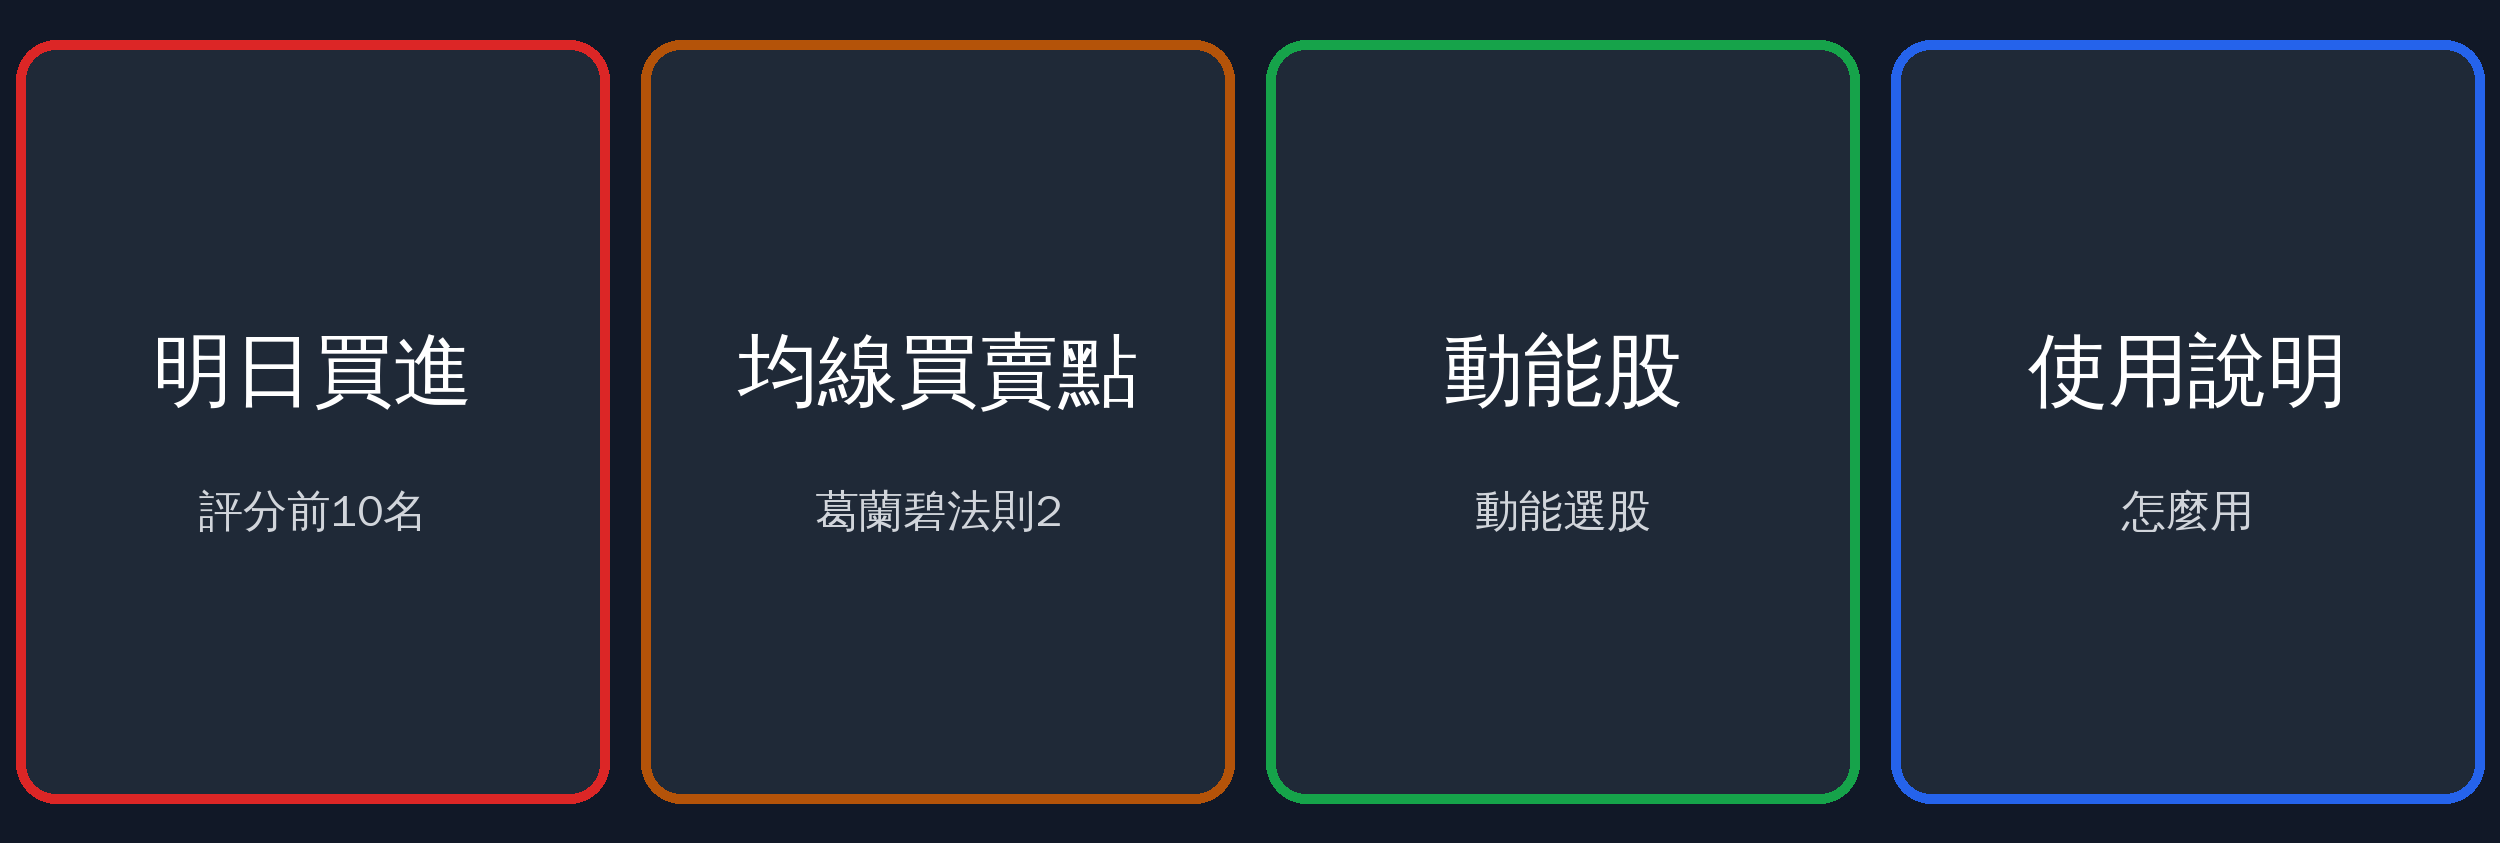
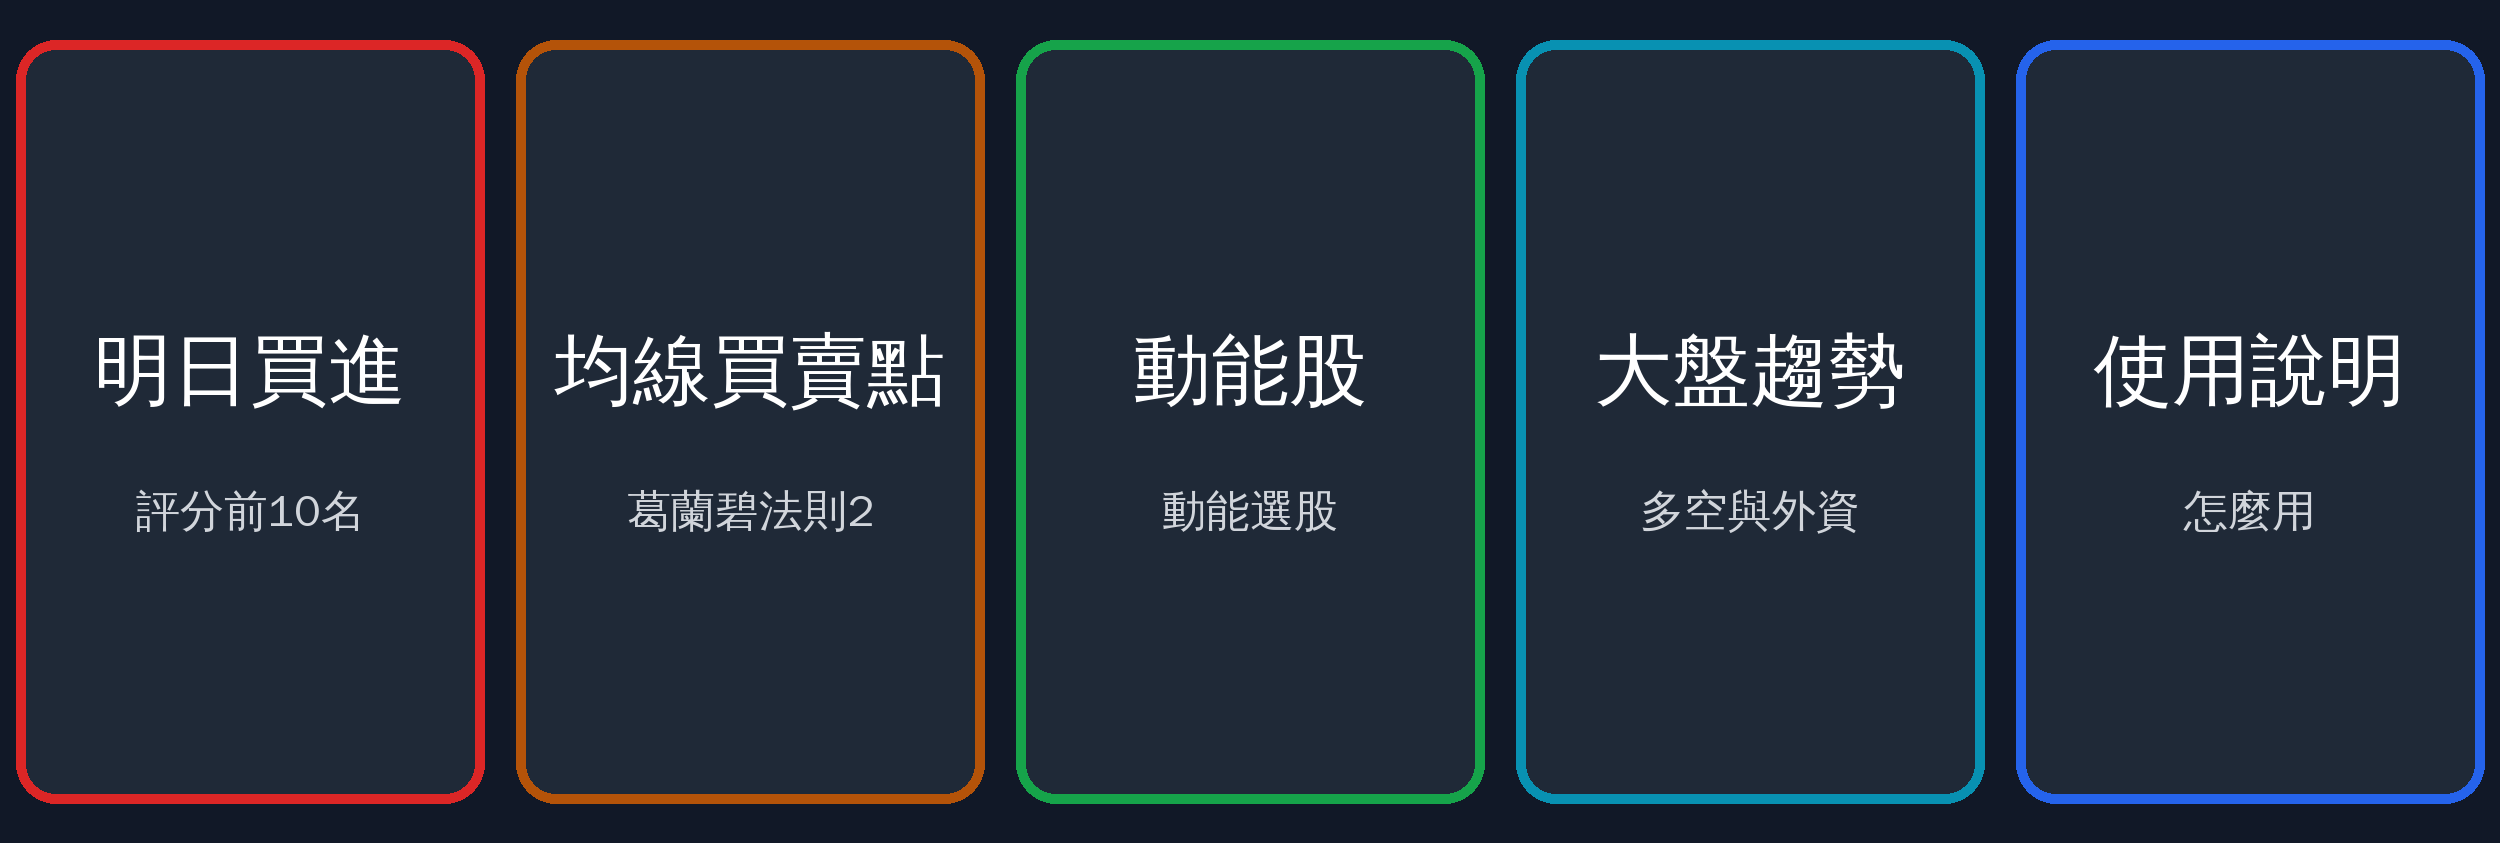
LINE 加上「大盤趨勢」 (#140)
* LINE 明日買進卡片加開盤參考價、紀錄分頁比較開盤落點

- LINE 明日買進每張卡片加上「開盤較佳 ≤」「開盤不追」，第一則文字補說明
- 紀錄分頁每筆標出開盤漲跌% 和落點（較佳／不追／其他），並分別統計已賣出平均報酬和勝率
- 自選股表 stock_id 外鍵補索引（SQL 檔）、刪掉測試檔沒用到的 import

Claude-Session: https://claude.ai/code/session_01HKgB2HeqGr9wm6n5qEToDQ

* 模擬持股加「檢討：和照規則比」

每筆模擬持股對照：同價位照明日買進規則持有 10 天的報酬、同一天開盤買前 10 名的平均，
算出「出場差異」（自己的賣出時機）和「選股差異」（自己挑的股票），上方顯示兩者平均。

Claude-Session: https://claude.ai/code/session_01HKgB2HeqGr9wm6n5qEToDQ

* 暫時研究：評分四大項與大盤季線過濾回測（只讀資料庫，不合併）

Claude-Session: https://claude.ai/code/session_01HKgB2HeqGr9wm6n5qEToDQ

* 暫時研究：月線、季線組合過濾（只讀資料庫，不合併）

Claude-Session: https://claude.ai/code/session_01HKgB2HeqGr9wm6n5qEToDQ

* 明日買進大盤過濾改成月線和季線都在上才買

回測 2025-02～2026-10：總報酬 +473%（季線 +488%），最大回撤 −12.9%（季線 −15.3%）。
網頁明日買進、紀錄分頁、LINE 清單與說明文字一起改。

Claude-Session: https://claude.ai/code/session_01HKgB2HeqGr9wm6n5qEToDQ

* 暫時研究：新大盤規則下的持有天數與名額（不合併）

Claude-Session: https://claude.ai/code/session_01HKgB2HeqGr9wm6n5qEToDQ

* 模擬持股：每晚照明日買進規則自動買賣，記錄到「每日買進測試」分組

Claude-Session: https://claude.ai/code/session_01HKgB2HeqGr9wm6n5qEToDQ

* 自動模擬起始資金改成 20 萬

Claude-Session: https://claude.ai/code/session_01HKgB2HeqGr9wm6n5qEToDQ

* 暫時研究：同產業持股上限、均量門檻（不合併）

Claude-Session: https://claude.ai/code/session_01HKgB2HeqGr9wm6n5qEToDQ

* 模擬持股：自動帳戶加總資產走勢、和加權指數比較

Claude-Session: https://claude.ai/code/session_01HKgB2HeqGr9wm6n5qEToDQ

* 個股分析卡：股價走勢改成互動 K 線圖（Lightweight Charts），加上買賣點、價位線、外資／MACD／KD 副圖

Claude-Session: https://claude.ai/code/session_01HKgB2HeqGr9wm6n5qEToDQ

* 個股分析卡 K 線圖：滑鼠移到哪天就在左上角顯示開高低收
[…]

Changed region(s): [[0.0312, 0.0308, 0.9672, 0.9561], [0.8424, 0.586, 0.936, 0.6477]]

diff --git a/supabase/functions/line-webhook/lookup.ts b/supabase/functions/line-webhook/lookup.ts
@@ -19,6 +19,7 @@ const LIST_WORDS: Record<string, string> = {
   "明日買進": "picks.json", "買進": "picks.json", "選股": "picks.json",
   "均線買賣點": "granville.json", "均線": "granville.json", "葛蘭碧": "granville.json", "等待法則2": "granville.json",
   "動能": "momentum.json", "動能股": "momentum.json", "動能選股": "momentum.json",
+  "大盤趨勢": "market.json", "大盤": "market.json",
 };
 export const MAX_CHOICES = 10; // 名稱對到很多檔時，最多列幾檔讓使用者點選（LINE 快速回覆最多 13 個）
 
@@ -83,6 +84,9 @@ export function helpText(index: Index | null): string {
     "・趨勢中回檔再起：符合趨勢模板，前 10 個交易日碰過布林下軌，今天站上布林中軌（20 日均線）",
     "・兩者同時：同時符合趨勢模板和 52 週新高＋量增；今天剛符合趨勢模板：今天才 8 個條件全部符合",
     "・離 50 日均線 30% 以上的漲多股不列入",
+    "",
+    "【🧭 大盤趨勢】",
+    "和網頁首頁的大盤趨勢相同：加權指數在哪幾條均線之上或之下、月線和季線的方向、距高點多遠、量能、外資現股買賣超金額、外資台指期淨未平倉的增減、上下最近的支撐壓力，以及「明日買進」的大盤濾網是綠燈還是紅燈。",
     "",
     "以上僅供參考，不構成投資建議。",
   ];

diff --git a/supabase/functions/line-webhook/index.ts b/supabase/functions/line-webhook/index.ts
@@ -2,7 +2,7 @@
 //
 // 卡片由 line_cards.py 每晚算好放在 Storage（archive 桶 _line_cards/），這裡只讀檔回覆；
 // 打「自選」時另外讀資料庫的分組與自選股清單（只讀，不寫入）；
-// 「明日買進」「均線買賣點」「動能股」回覆 line_lists.py 每晚算好的清單（picks.json、granville.json、momentum.json）。
+// 「明日買進」「均線買賣點」「動能股」「大盤趨勢」回覆 line_lists.py 每晚算好的清單（picks.json、granville.json、momentum.json、market.json）。
 // 用 LINE 的回覆訊息（reply）回答，不算每月推播額度。
 //
 // 需要的設定（Supabase → Edge Functions → Secrets）：

diff --git a/supabase/functions/line-webhook/lookup_test.ts b/supabase/functions/line-webhook/lookup_test.ts
@@ -46,6 +46,7 @@ test("自選與我的ID", () => {
   assert.deepEqual(lookup("均線買賣點", index), { kind: "list", file: "granville.json" });
   assert.deepEqual(lookup("明日買進", index), { kind: "list", file: "picks.json" });
   assert.deepEqual(lookup("動能股", index), { kind: "list", file: "momentum.json" });
+  assert.deepEqual(lookup("大盤趨勢", index), { kind: "list", file: "market.json" });
 });
 
 test("帳號設定", () => {

diff --git a/line_lists.py b/line_lists.py
@@ -1,5 +1,5 @@
 """
-LINE 選單「明日買進」「均線買賣點」「動能股」的回覆 - 和網頁同一套計算，每晚由 line_cards.py 算好存到 Storage
+LINE 選單「明日買進」「均線買賣點」「動能股」「大盤趨勢」的回覆 - 和網頁同一套計算，每晚由 line_cards.py 算好存到 Storage
 
     明日買進：選股頁「明日買進」的評分前 10 名與參考標籤（utils.picks.buy_list），大盤不在月線和季線上時提醒先不買
     均線買賣點：選股頁「均線買賣點」（葛蘭碧）「買賣預告 → 準備買進」中狀態為「⏳ 等待法則2」的股票（網頁預設參數、不加篩選），
@@ -7,9 +7,10 @@ LINE 選單「明日買進」「均線買賣點」「動能股」的回覆 - 和
             後面接「急跌反彈候選」（法則 4，utils.analysis.granville_rebound_table），最多一則輪播
     動能股：選股頁「評分排行」裡「動能選股」的「兩者同時」「52 週新高＋量增」「今天剛符合趨勢模板」三種，
             欄位和網頁表格相同（utils.momentum.momentum_table）
+    大盤趨勢：和網頁首頁、總覽的「🧭 大盤趨勢」相同（utils.market_trend），一則文字訊息
 
 每檔一張小卡，卡片下方的按鈕可以直接查那檔的完整個股分析卡。
-存放：archive 桶 / _line_cards / picks.json、granville.json、momentum.json，內容是 {"date": 資料日期, "messages": [LINE 訊息]}，
+存放：archive 桶 / _line_cards / picks.json、granville.json、momentum.json、market.json，內容是 {"date": 資料日期, "messages": [LINE 訊息]}，
 LINE 機器人（supabase/functions/line-webhook）收到時原樣回覆，最多 5 則訊息。
 """
 import json
@@ -253,6 +254,7 @@ def load_momentum():
 def build_lists():
     """回傳 {檔名: 內容}，給 line_cards.upload 一起上傳"""
     from utils.analysis import granville_default, load_market_regime, market_warning
+    from utils.market_trend import compute_market_trend, trend_text
     from utils.picks import buy_list
     g_date, table, rebound = granville_default()
     m_date, m_msgs = momentum_messages(load_momentum())
@@ -267,6 +269,9 @@ def build_lists():
         add_warning(content["messages"], warn)
     # 明日買進的第一則已寫大盤狀態，不再加提醒
     lists["picks.json"] = {"date": p_date, "messages": picks_messages(p_date, top, regime)}
+    trend = compute_market_trend()
+    lists["market.json"] = {"date": trend["date"] if trend else None,
+                            "messages": [{"type": "text", "text": trend_text(trend)[:TEXT_MAX]}]}
     return lists
 
 

diff --git a/assets/make_richmenu.py b/assets/make_richmenu.py
@@ -2,23 +2,25 @@
 LINE 圖文選單的圖片。改按鈕文字時改這裡重新產生：
     pip install pillow && python assets/make_richmenu.py
 會產生兩張：
-    assets/line_richmenu.png：完整五格（自選股、明日買進、均線買賣點、動能股、使用說明），給有對應網頁帳號的人
-    assets/line_richmenu_basic.png：四格（沒有自選股），所有人的預設選單
+    assets/line_richmenu.png：完整六格（自選股、明日買進、均線買賣點、動能股、大盤趨勢、使用說明），給有對應網頁帳號的人
+    assets/line_richmenu_basic.png：五格（沒有自選股），所有人的預設選單
 需要中文字型（預設用文泉驛正黑，路徑不同時改 FONT）。按鈕對應的文字在 line_richmenu.py 的 FULL_AREAS／BASIC_AREAS。
 """
 from PIL import Image, ImageDraw, ImageFont
 W, H = 2500, 843
 FONT = "/usr/share/fonts/truetype/wqy/wqy-zenhei.ttc"
-big, small = ImageFont.truetype(FONT, 80), ImageFont.truetype(FONT, 44)
 WATCH = ("自選股", "我的自選股", "#9333ea")
 OTHERS = [("明日買進", "評分前10名", "#dc2626"), ("均線買賣點", "葛蘭碧法則2", "#b45309"),
-          ("動能股", "動能選股", "#16a34a"), ("使用說明", "怎麼用", "#2563eb")]
+          ("動能股", "動能選股", "#16a34a"), ("大盤趨勢", "多空與外資", "#0891b2"), ("使用說明", "怎麼用", "#2563eb")]
 
 
 def draw(cells, path):
     img = Image.new("RGB", (W, H), "#111827")
     d = ImageDraw.Draw(img)
     w = W // len(cells)
+    # 格子變多時字跟著縮小，最長的「均線買賣點」（5 個字）要放得下
+    big = ImageFont.truetype(FONT, min(80, int((w - 110) / 5)))
+    small = ImageFont.truetype(FONT, min(44, int((w - 60) / 6)))
     for i, (t, sub, color) in enumerate(cells):
         x0 = i * w
         d.rounded_rectangle([x0 + 16, 40, x0 + w - 16, H - 40], radius=40, fill="#1f2937", outline=color, width=10)

diff --git a/line_richmenu.py b/line_richmenu.py
@@ -2,8 +2,8 @@
 LINE 圖文選單 - 聊天室下方的按鈕，點了就送出對應的文字給機器人
 
 有兩套選單：
-    一般選單（四格：明日買進、均線買賣點、動能股、使用說明）：所有人的預設選單
-    完整選單（五格，多了自選股）：只給有對應網頁帳號的人。
+    一般選單（五格：明日買進、均線買賣點、動能股、大盤趨勢、使用說明）：所有人的預設選單
+    完整選單（六格，多了自選股）：只給有對應網頁帳號的人。
         LINE_USER_ID（你自己）在這裡直接換成完整選單；
         其他列在 Supabase LINE_WATCH_ACCOUNTS 的人，傳訊息給機器人時由 Edge Function line-webhook 自動換
         （靠選單別名 FULL_ALIAS 找到完整選單）。
@@ -24,9 +24,9 @@ ASSETS = Path(__file__).resolve().parent / "assets"
 WIDTH, HEIGHT = 2500, 843
 # 按鈕平分寬度，點了送出的文字（和 Edge Function line-webhook 認得的指令相同）
 FULL_NAME, FULL_IMAGE, FULL_AREAS = ("台股分析選單", ASSETS / "line_richmenu.png",
-                                     ["自選", "明日買進", "均線買賣點", "動能股", "說明"])
+                                     ["自選", "明日買進", "均線買賣點", "動能股", "大盤趨勢", "說明"])
 BASIC_NAME, BASIC_IMAGE, BASIC_AREAS = ("台股分析選單（一般）", ASSETS / "line_richmenu_basic.png",
-                                        ["明日買進", "均線買賣點", "動能股", "說明"])
+                                        ["明日買進", "均線買賣點", "動能股", "大盤趨勢", "說明"])
 FULL_ALIAS = "watch-full"  # 要和 line-webhook 的 FULL_MENU_ALIAS 相同
 
 

diff --git a/app/utils/market_trend.py b/app/utils/market_trend.py
@@ -175,11 +175,28 @@ def render(result):
         unsafe_allow_html=True)
 
 
-@st.cache_data(ttl=3600)
-def load_market_trend():
-    """讀資料並分析（首頁和總覽共用同一份快取）"""
+def compute_market_trend():
+    """讀資料並分析（LINE 的「大盤趨勢」也用這個）"""
     from utils.db import get_futures_ins, get_market_index, get_recent_closes, get_recent_ins
     index_df = get_market_index("TAIEX", INDEX_DAYS)
     ins = get_recent_ins(40, "stock_id, date, foreign_net_shares")
     closes = get_recent_closes(40, "stock_id, date, close_price", adjust=False)
     return analyze(index_df, foreign_amount(ins, closes), get_futures_ins())
+
+
+@st.cache_data(ttl=3600)
+def load_market_trend():
+    """網頁用：首頁和總覽共用同一份快取"""
+    return compute_market_trend()
+
+
+def trend_text(result):
+    """LINE 用的文字版（result 是 analyze 的結果）"""
+    if not result:
+        return "大盤資料不足，暫時無法分析趨勢。"
+    mark = {1: "🔴", -1: "🟢", 0: "⚪"}
+    lines = [f"🧭 大盤趨勢（{result['date']} 收盤）", "", result["summary"], ""]
+    lines += [f"{mark[t]} {k}：{v}" for k, v, t in result["items"]]
+    lines += ["", "🔴 偏多、🟢 偏空、⚪ 中性。依加權指數均線、成交值、外資現股與台指期淨未平倉推算的趨勢判斷，不是漲跌預測。",
+              "同網頁首頁和全台股總覽的「🧭 大盤趨勢」。"]
+    return "\n".join(lines)

diff --git a/tests/test_market_trend.py b/tests/test_market_trend.py
@@ -1,7 +1,7 @@
 import numpy as np
 import pandas as pd
 
-from utils.market_trend import analyze, foreign_amount
+from utils.market_trend import analyze, foreign_amount, trend_text
 
 
 def _index(closes):
@@ -43,3 +43,10 @@ def test_foreign_amount():
     closes = pd.DataFrame({"stock_id": ["A", "B", "A"], "date": ["d1", "d1", "d2"], "close_price": [500, 100, 600]})
     amt = foreign_amount(ins, closes)
     assert list(amt.round(2)) == [3.0, 3.0]   # (5 億 − 2 億)、3 億
+
+
+def test_trend_text():
+    r = analyze(_index(list(np.linspace(20000, 40000, 260))))
+    text = trend_text(r)
+    assert text.startswith("🧭 大盤趨勢（") and "🔴 選股濾網：" in text and "\n" in text
+    assert trend_text(None) == "大盤資料不足，暫時無法分析趨勢。"

diff --git a/tests/test_line_lists.py b/tests/test_line_lists.py
@@ -126,4 +126,6 @@ def test_picks_list(use_db):
 
 def test_build_lists_has_picks(use_db):
     use_db()
-    assert {"picks.json", "granville.json", "momentum.json"} <= set(line_lists.build_lists())
+    lists = line_lists.build_lists()
+    assert {"picks.json", "granville.json", "momentum.json", "market.json"} <= set(lists)
+    assert lists["market.json"]["messages"][0]["text"].startswith(("🧭 大盤趨勢", "大盤資料不足"))
